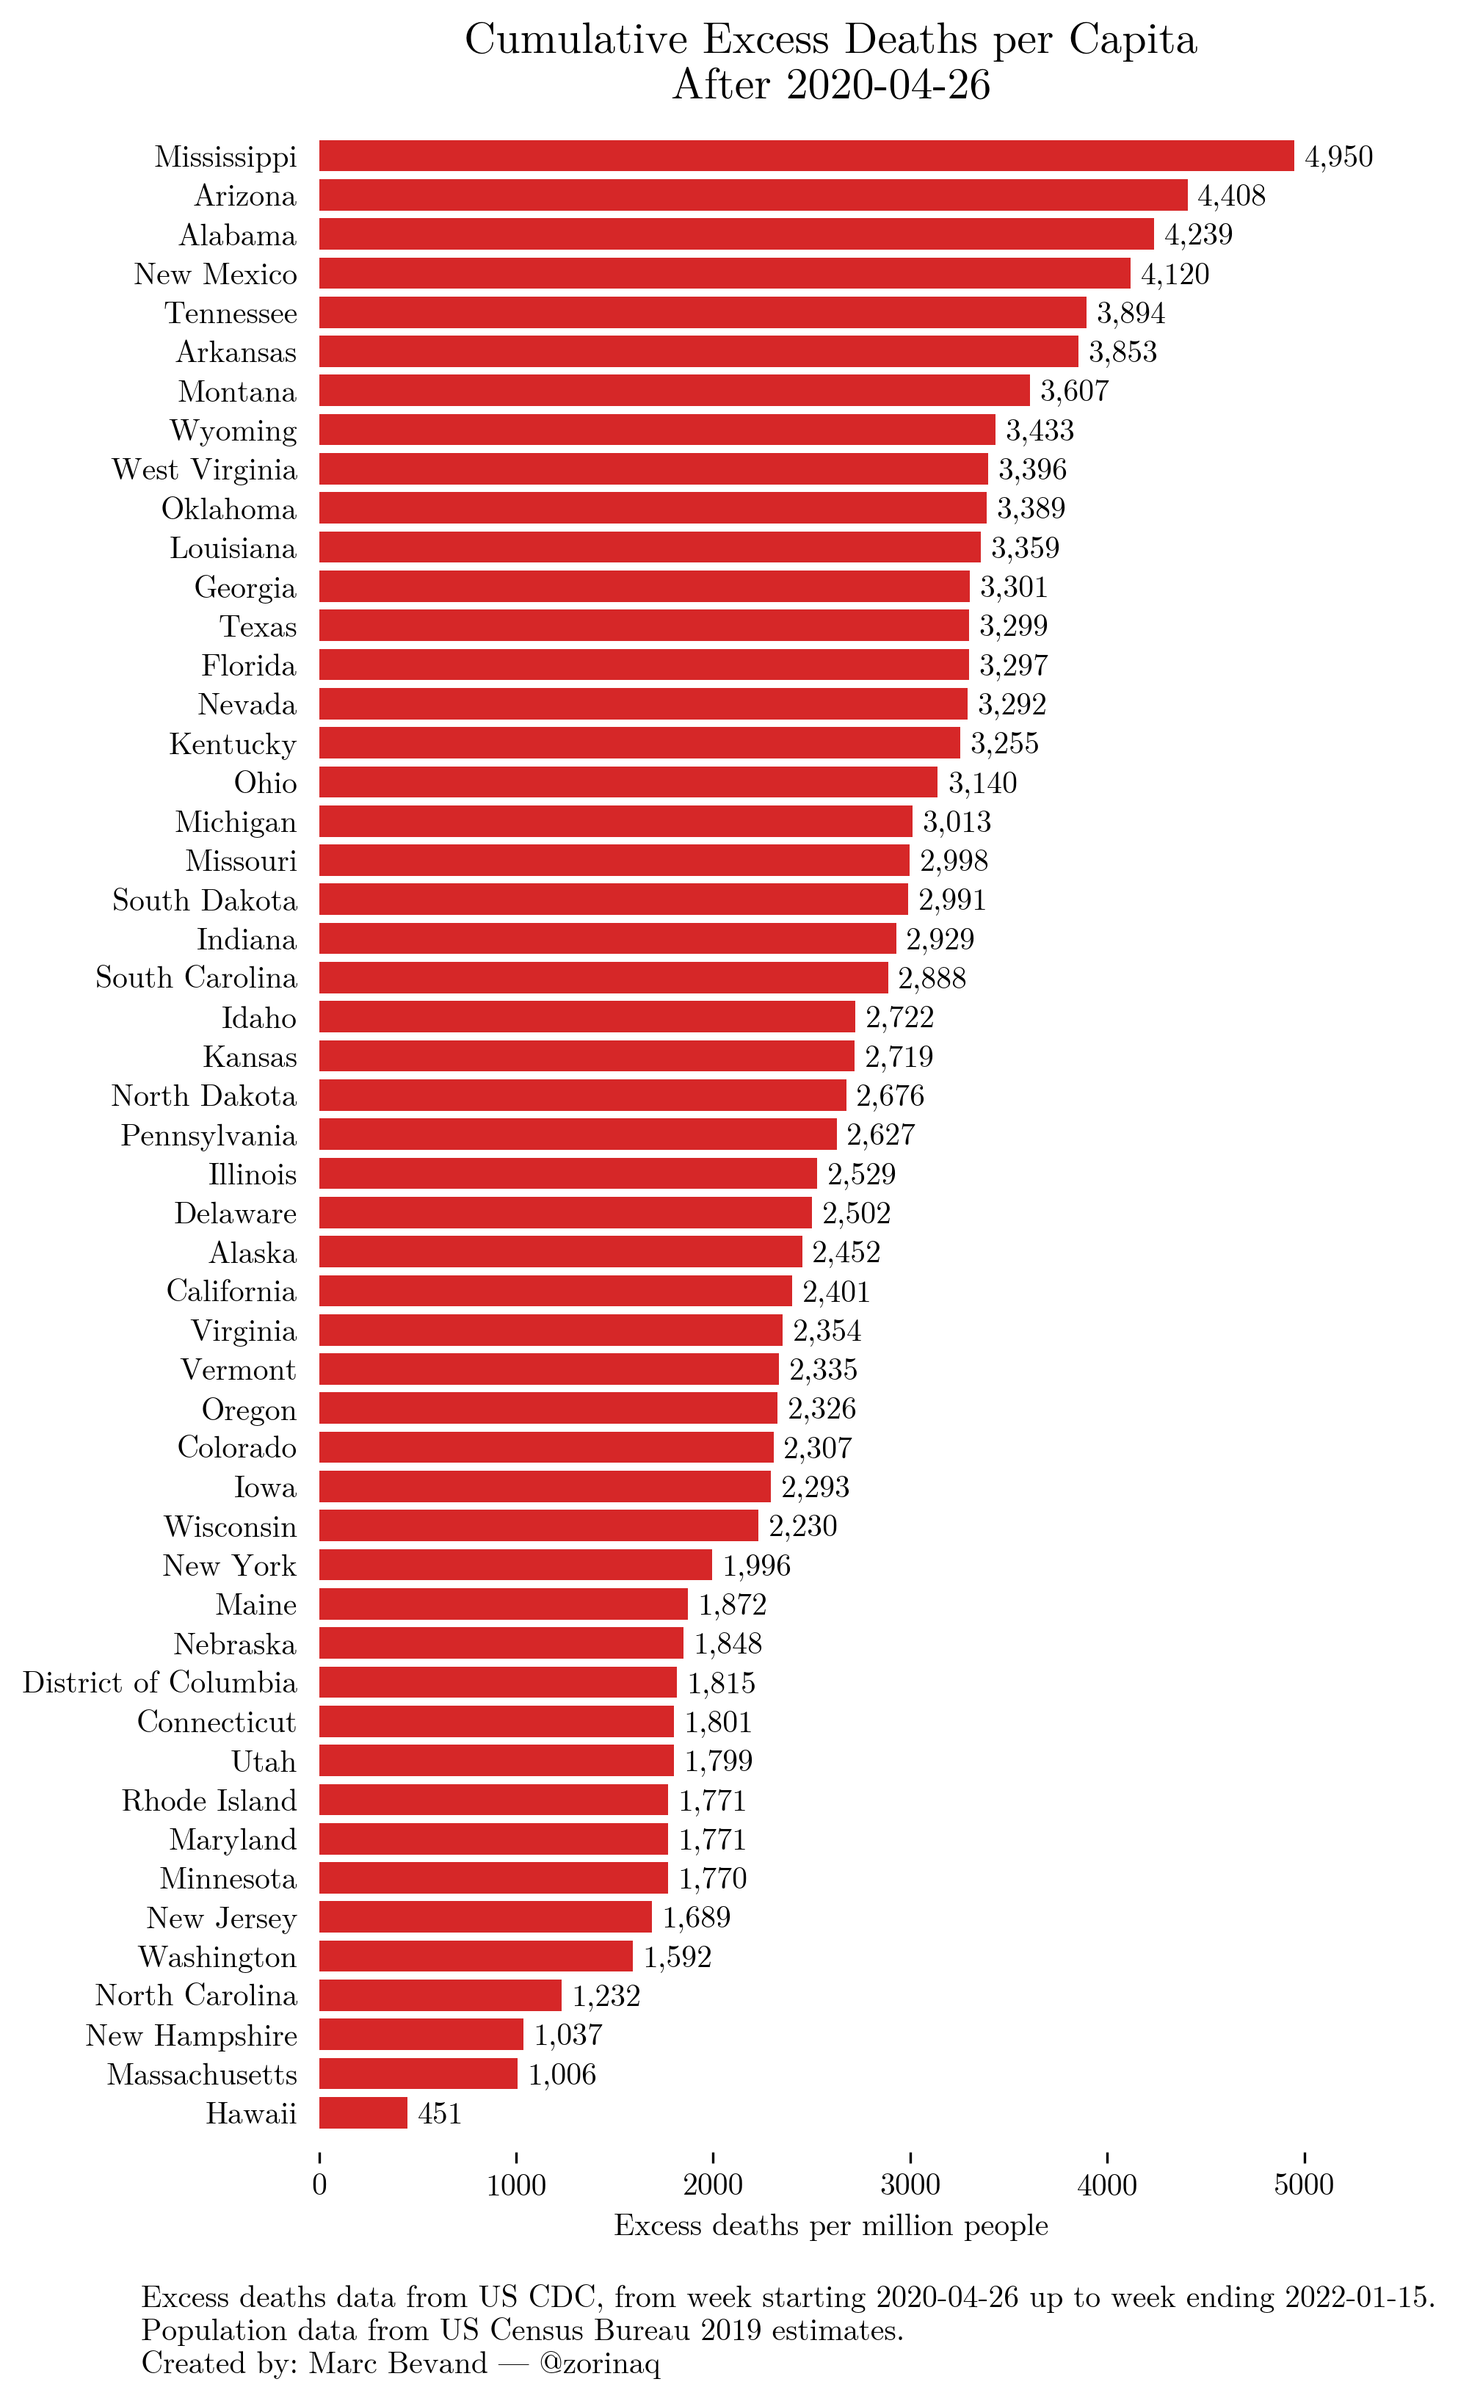
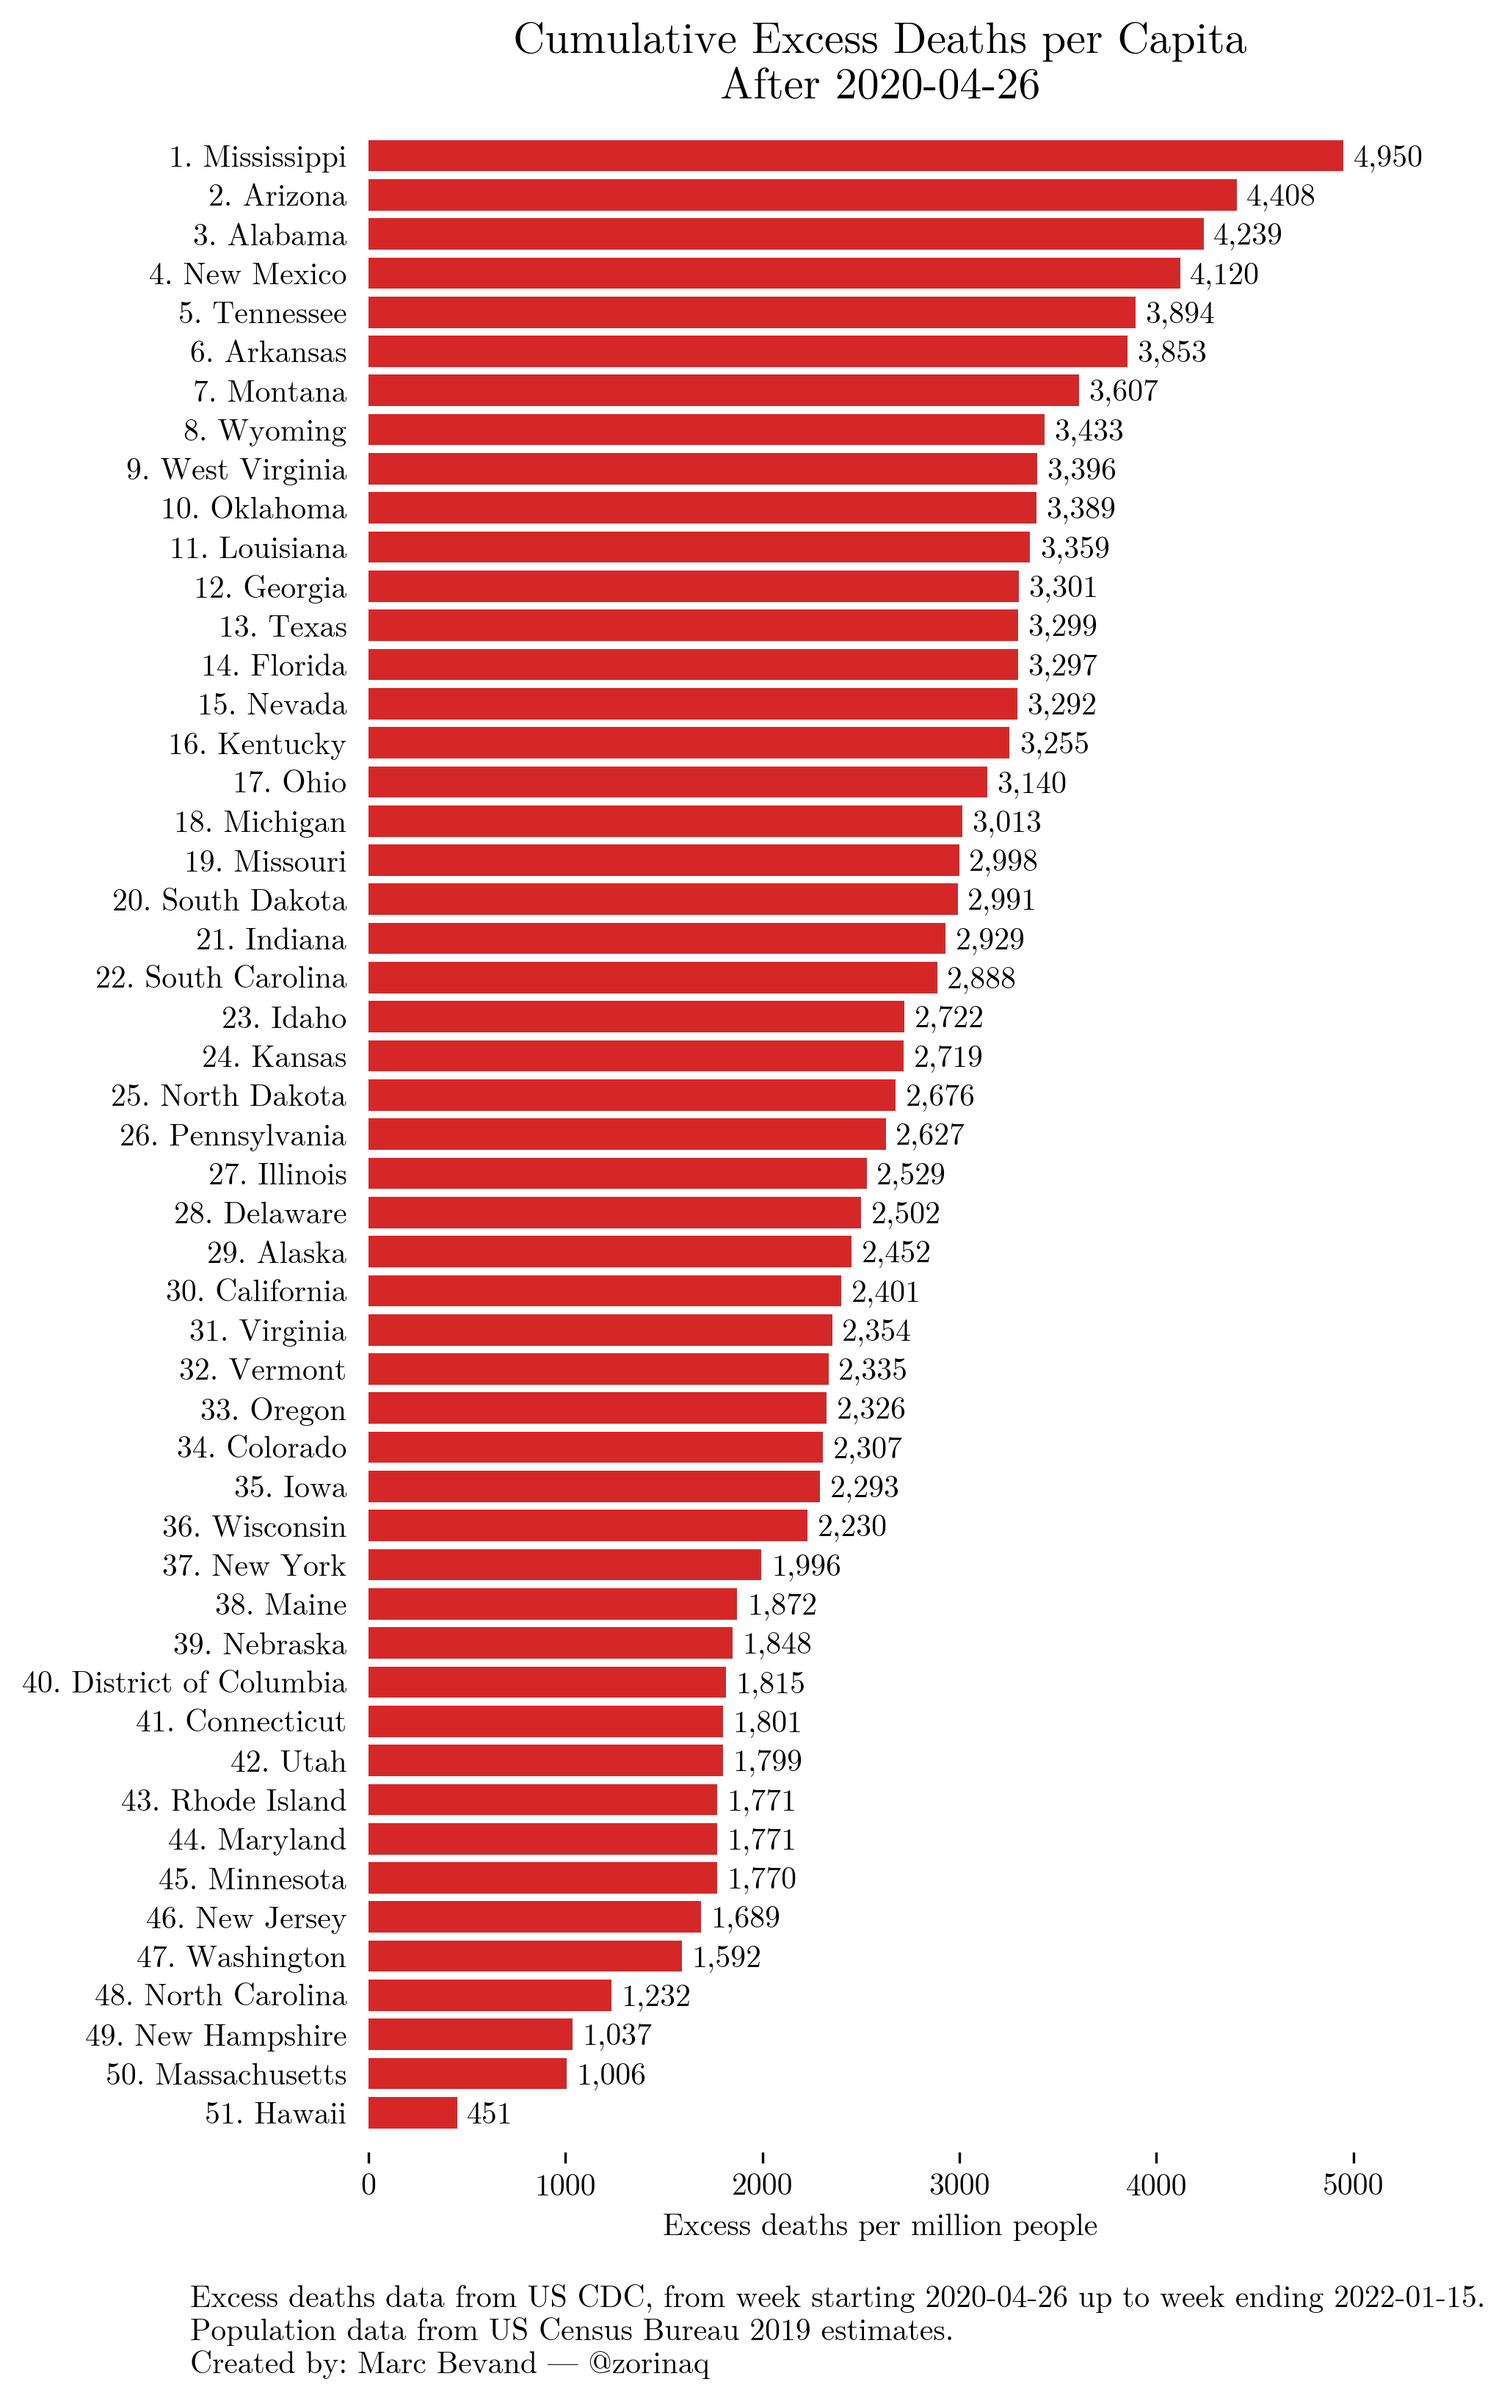
add ranking numbers

diff --git a/process.py b/process.py
@@ -116,7 +116,8 @@ def chart(res, last):
     rcParams['font.family'] = ['serif']
     rcParams['font.serif'] = ['Latin Modern Math']
     (fig, ax) = plt.subplots(dpi=300, figsize=(6, 12))
-    ax.barh([_[0] for _ in res], [_[1] for _ in res], color=tableau20[6])
+    ax.barh([f'{51 - i}. {x[0]}' for (i, x) in enumerate(res)],
+            [_[1] for _ in res], color=tableau20[6])
     for (i, (s, e)) in enumerate(res):
         ax.text(e + 50, i - .07, f'{e:,.0f}', va='center')
     ax.set_ylim(bottom=-1, top=51)
